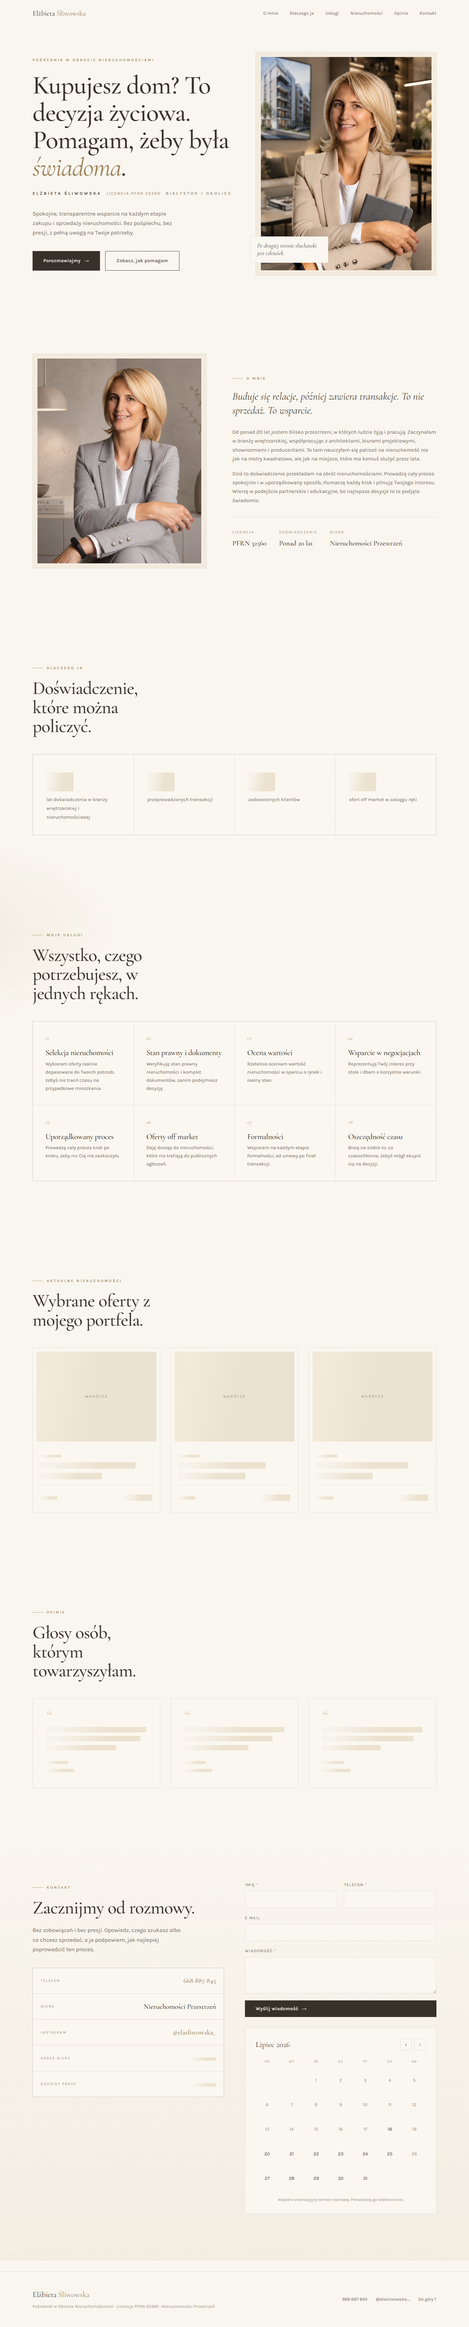
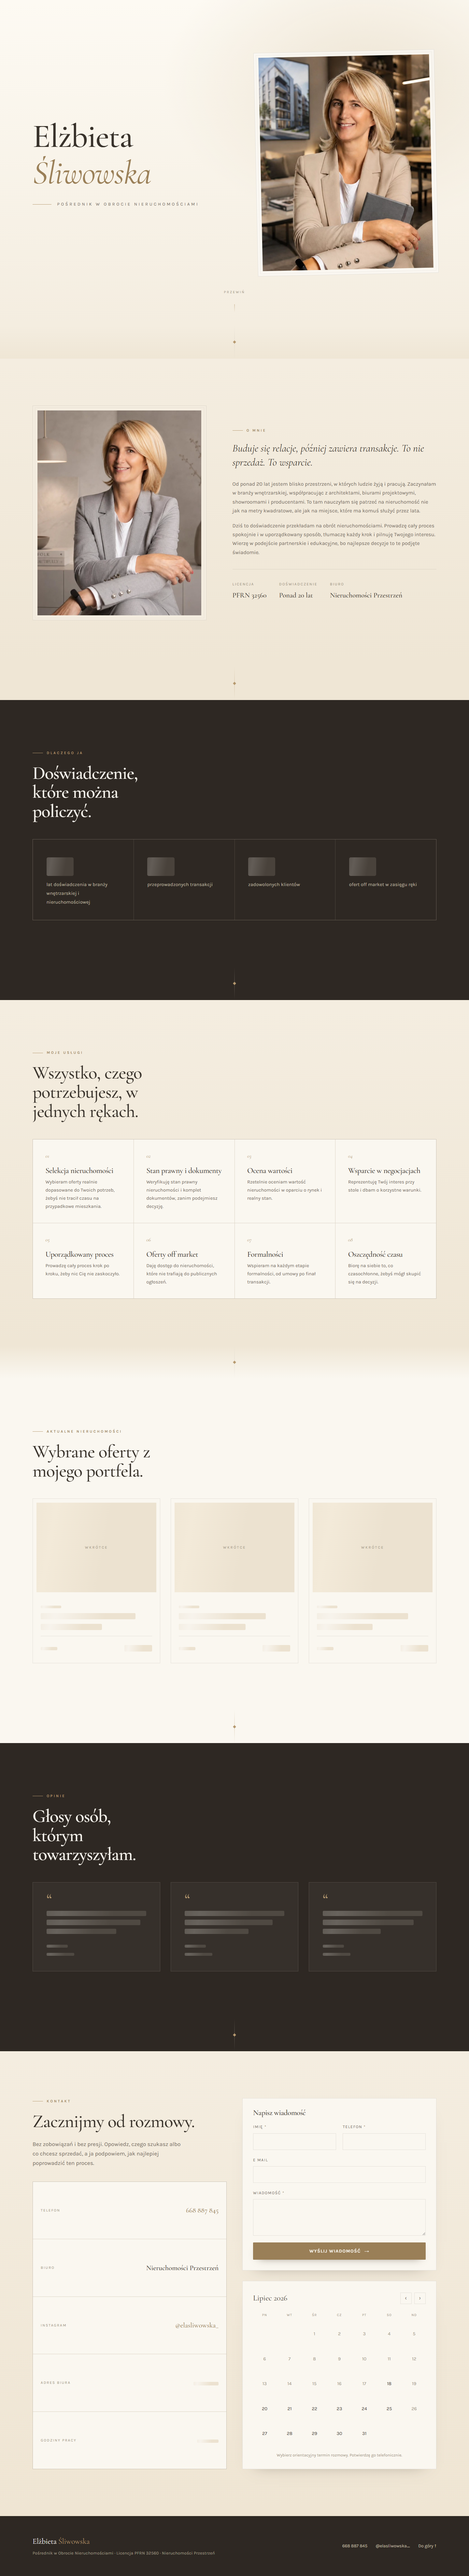
f

diff --git a/index.html b/index.html
@@ -22,6 +22,8 @@
   --beige:#e3d6bf;
   --accent:#b6996f;
   --accent-deep:#9a7f57;
+  --deep:#2e2823;
+  --deep-2:#241f1b;
   --ink:#37312a;
   --ink-soft:#6d6456;
   --ink-faint:#9a9080;
@@ -76,8 +78,13 @@ img{display:block;max-width:100%}
 .frame.is-loaded .media::before{display:none}
 @keyframes shimmer{to{background-position:-120% 0}}
 
-.nav{position:fixed;inset:0 0 auto;z-index:100;transition:background .3s ease,box-shadow .3s ease,padding .3s ease;padding:1.35rem 0}
-.nav.scrolled{background:rgba(250,247,240,.82);backdrop-filter:blur(12px);box-shadow:0 1px 0 var(--line);padding:.85rem 0}
+.nav{
+  position:fixed;inset:0 0 auto;z-index:100;padding:.9rem 0;
+  background:rgba(250,247,240,.86);backdrop-filter:blur(14px);box-shadow:0 1px 0 var(--line);
+  opacity:0;visibility:hidden;transform:translateY(-100%);
+  transition:opacity .45s var(--ease-out),transform .55s var(--ease-out),visibility .45s;
+}
+.nav.scrolled{opacity:1;visibility:visible;transform:none}
 .nav .row{display:flex;align-items:center;justify-content:space-between;gap:1rem}
 .brand{font-family:'Cormorant Garamond',serif;font-size:1.4rem;letter-spacing:-.01em}
 .brand span{color:var(--accent-deep)}
@@ -88,43 +95,71 @@ img{display:block;max-width:100%}
 .nav-links a:focus-visible{outline:2px solid var(--accent-deep);outline-offset:4px}
 
 .btn{
-  display:inline-flex;align-items:center;gap:.7rem;
-  font-family:'Karla',sans-serif;font-size:.9rem;font-weight:500;letter-spacing:.04em;
-  padding:1.05rem 2.1rem;cursor:pointer;border:none;
-  background:var(--ink);color:var(--cream);
-  transition:transform .18s var(--ease-out),background .3s ease,box-shadow .3s ease;
+  display:inline-flex;align-items:center;justify-content:center;gap:.7rem;
+  font-family:'Karla',sans-serif;font-size:.88rem;font-weight:600;letter-spacing:.1em;text-transform:uppercase;
+  padding:1.05rem 2.2rem;cursor:pointer;border:1px solid var(--accent-deep);border-radius:2px;
+  background:var(--accent-deep);color:var(--cream);position:relative;overflow:hidden;
+  transition:transform .2s var(--ease-out),color .35s ease,box-shadow .35s ease,border-color .35s ease;
+  box-shadow:0 10px 26px -18px rgba(60,45,25,.85);
   will-change:transform;
 }
+.btn::before{content:'';position:absolute;inset:0;background:var(--deep);transform:translateY(101%);transition:transform .45s var(--ease-out);z-index:0}
+.btn>*{position:relative;z-index:1}
 .btn .arrow{transition:transform .3s var(--ease-out)}
-@media(hover:hover){.btn:hover{background:var(--accent-deep);box-shadow:0 14px 30px -14px rgba(154,127,87,.7)}.btn:hover .arrow{transform:translateX(5px)}}
-.btn:active{transform:scale(.97)}
+@media(hover:hover){
+  .btn:hover{transform:translateY(-2px);border-color:var(--deep);box-shadow:0 18px 34px -18px rgba(46,40,35,.8)}
+  .btn:hover::before{transform:translateY(0)}
+  .btn:hover .arrow{transform:translateX(5px)}
+}
+.btn:active{transform:translateY(0) scale(.98)}
 .btn:focus-visible{outline:2px solid var(--accent-deep);outline-offset:4px}
-.btn-ghost{background:transparent;color:var(--ink);border:1px solid var(--ink)}
-@media(hover:hover){.btn-ghost:hover{background:var(--ink);color:var(--cream);box-shadow:none}}
+.btn-ghost{background:transparent;color:var(--accent-deep);box-shadow:none}
+@media(hover:hover){.btn-ghost:hover{color:var(--cream)}}
 
 section{position:relative}
 .pad{padding-block:clamp(4.5rem,11vw,9rem)}
+.band{background:var(--cream)}
+.band-2{background:linear-gradient(180deg,var(--cream-2),#efe6d5)}
+.band-dark{background:var(--deep);color:var(--cream-2)}
+.band-dark h2,.band-dark h3{color:var(--cream)}
+.band-dark .eyebrow{color:var(--accent)}
+.band-dark .tag::before{background:var(--accent)}
+.rule{height:clamp(4rem,7vw,6.5rem);position:relative;overflow:hidden}
+.rule::before{content:'';position:absolute;left:50%;top:0;width:1px;height:100%;background:linear-gradient(180deg,transparent,var(--line),transparent);transform:translateX(-50%) scaleY(0);transform-origin:top;transition:transform .9s var(--ease-out)}
+.rule.on::before{transform:translateX(-50%) scaleY(1)}
+.rule::after{content:'';position:absolute;left:50%;top:50%;width:7px;height:7px;background:var(--accent);transform:translate(-50%,-50%) rotate(45deg) scale(0);transition:transform .6s .35s var(--ease-out)}
+.rule.on::after{transform:translate(-50%,-50%) rotate(45deg) scale(1)}
+.rule-dark{background:var(--deep)}
+.rule-dark::before{background:linear-gradient(180deg,transparent,rgba(236,226,208,.28),transparent)}
+.rule-into-dark{background:#efe6d5}
+.rule-into-dark::before,.rule-into-dark-2::before{background:linear-gradient(180deg,transparent,rgba(182,153,111,.55),transparent)}
+.rule-into-light::before{background:linear-gradient(180deg,transparent,rgba(236,226,208,.32),transparent)}
+.rule-into-light{background:var(--deep)}
+.rule-into-light::after{background:var(--accent)}
+.rule-up{background:linear-gradient(180deg,#efe6d5,var(--cream))}
+.rule-into-dark-2{background:var(--cream)}
 .tag{display:inline-flex;align-items:center;gap:.7rem;margin-bottom:1.4rem}
 .tag::before{content:'';width:2rem;height:1px;background:var(--accent)}
 .h-sec{font-size:clamp(2.1rem,5.5vw,3.5rem)}
 
-.hero{padding-top:clamp(7rem,15vw,10rem);padding-bottom:clamp(3rem,8vw,6rem)}
-.hero-grid{display:grid;gap:clamp(2.5rem,6vw,4.5rem);align-items:center}
-.hero-copy .eyebrow{display:block;margin-bottom:1.6rem}
-.hero-copy h1{font-size:clamp(2.6rem,7.5vw,5rem);margin-bottom:1.7rem}
-.hero-copy h1 em{font-style:italic;color:var(--accent-deep)}
-.hero-name{font-family:'Karla',sans-serif;font-size:.8rem;letter-spacing:.34em;text-transform:uppercase;color:var(--ink-soft);margin-bottom:2.3rem;display:flex;align-items:center;gap:1rem;flex-wrap:wrap}
-.hero-name b{font-weight:600;color:var(--ink)}
-.hero-name .lic{color:var(--accent-deep);letter-spacing:.16em}
-.hero-cta{display:flex;flex-wrap:wrap;gap:1rem;margin-top:2.6rem}
-.hero-media{position:relative}
-.hero-media .frame{transform:rotate(-1.2deg)}
-.hero-media .stamp{
-  position:absolute;z-index:5;left:-1.1rem;bottom:2.4rem;
-  background:var(--cream);border:1px solid var(--line);padding:1rem 1.3rem;max-width:15rem;
-  transform:rotate(1.5deg);
+.hero{
+  position:relative;min-height:100svh;display:flex;align-items:center;
+  padding-block:clamp(5rem,12vw,8rem);
+  background:
+    radial-gradient(1000px 700px at 78% 25%,rgba(227,214,191,.55),transparent 62%),
+    linear-gradient(180deg,#fdfaf3,var(--cream-2));
 }
-.hero-media .stamp p{font-family:'Cormorant Garamond',serif;font-style:italic;font-size:1.15rem;line-height:1.3;color:var(--ink)}
+.hero-grid{display:grid;gap:clamp(2.5rem,6vw,4.5rem);align-items:center}
+.hero-copy h1{font-size:clamp(3rem,9vw,6.4rem);line-height:1.06;margin-bottom:1.8rem}
+.hero-copy h1 span{display:block;padding-block:.02em}
+.hero-copy h1 .last{color:var(--accent-deep);font-style:italic}
+.hero-role{font-family:'Karla',sans-serif;font-size:clamp(.72rem,1.6vw,.84rem);letter-spacing:.34em;text-transform:uppercase;color:var(--ink-soft);display:flex;align-items:center;gap:1.1rem}
+.hero-role::before{content:'';width:clamp(2rem,6vw,3.6rem);height:1px;background:var(--accent)}
+.hero-media{position:relative}
+.hero-media .frame{transform:rotate(-1.2deg);background:rgba(255,255,255,.5)}
+.hero-scroll{position:absolute;left:50%;bottom:clamp(1.6rem,4vw,2.6rem);transform:translateX(-50%);font-size:.66rem;letter-spacing:.28em;text-transform:uppercase;color:var(--ink-faint);display:flex;flex-direction:column;align-items:center;gap:.7rem}
+.hero-scroll::after{content:'';width:1px;height:2.6rem;background:linear-gradient(180deg,var(--accent),transparent);animation:drop 2.4s var(--ease-inout) infinite}
+@keyframes drop{0%{transform:scaleY(0);transform-origin:top}50%{transform:scaleY(1);transform-origin:top}51%{transform:scaleY(1);transform-origin:bottom}100%{transform:scaleY(0);transform-origin:bottom}}
 
 .about-grid{display:grid;gap:clamp(2.5rem,6vw,5rem);align-items:center}
 .about-media .frame{transform:rotate(1deg)}
@@ -135,11 +170,12 @@ section{position:relative}
 .about-meta div b{font-family:'Cormorant Garamond',serif;font-weight:500;font-size:1.35rem;color:var(--ink)}
 
 .stats-head{max-width:40ch;margin-bottom:clamp(2.5rem,5vw,3.5rem)}
-.stats{display:grid;gap:1px;background:var(--line);border:1px solid var(--line)}
-.stat{background:var(--cream);padding:clamp(1.8rem,3.5vw,2.6rem)}
-.stat .num{font-family:'Cormorant Garamond',serif;font-size:clamp(2.8rem,7vw,4.2rem);line-height:1;color:var(--accent-deep);display:block;margin-bottom:.7rem}
-.stat .num .skel{height:clamp(2.4rem,6vw,3.6rem);width:2.6ch;border-radius:5px}
-.stat .lbl{font-size:.92rem;color:var(--ink-soft);letter-spacing:.01em}
+.stats{display:grid;gap:1px;background:rgba(236,226,208,.16);border:1px solid rgba(236,226,208,.16)}
+.stat{background:var(--deep);padding:clamp(1.8rem,3.5vw,2.6rem);transition:background .35s ease}
+@media(hover:hover){.stat:hover{background:var(--deep-2)}}
+.stat .num{font-family:'Cormorant Garamond',serif;font-size:clamp(2.8rem,7vw,4.2rem);line-height:1;color:var(--accent);display:block;margin-bottom:.7rem}
+.stat .num .skel{height:clamp(2.4rem,6vw,3.6rem);width:2.6ch;border-radius:5px;background:rgba(236,226,208,.14)}
+.stat .lbl{font-size:.92rem;color:rgba(236,226,208,.72);letter-spacing:.01em}
 
 .svc{display:grid;gap:1px;background:var(--line);border:1px solid var(--line)}
 .svc-item{background:var(--cream);padding:clamp(1.8rem,3vw,2.4rem);position:relative;transition:background .35s ease,transform .35s var(--ease-out)}
@@ -162,25 +198,36 @@ section{position:relative}
 @media(hover:hover){.prop:hover{transform:translateY(-6px);box-shadow:0 26px 50px -30px rgba(55,49,42,.4)}}
 
 .quotes{display:grid;gap:clamp(1.5rem,3vw,2rem)}
-.quote{background:var(--cream);border:1px solid var(--line);padding:clamp(1.9rem,3.2vw,2.6rem);display:flex;flex-direction:column;gap:1.6rem}
-.quote .mark{font-family:'Cormorant Garamond',serif;font-size:3.2rem;line-height:.4;color:var(--beige);height:1.2rem}
-.quote p{font-family:'Cormorant Garamond',serif;font-size:1.3rem;font-style:italic;line-height:1.45;color:var(--ink);flex:1}
-.quote .who{font-size:.82rem;letter-spacing:.06em;color:var(--ink-soft)}
-.quote .who b{display:block;font-weight:600;color:var(--ink);font-family:'Karla',sans-serif;letter-spacing:.02em;margin-bottom:.15rem}
+.quote{background:rgba(250,247,240,.04);border:1px solid rgba(236,226,208,.16);padding:clamp(1.9rem,3.2vw,2.6rem);display:flex;flex-direction:column;gap:1.6rem;transition:transform .4s var(--ease-out),background .4s ease}
+@media(hover:hover){.quote:hover{transform:translateY(-5px);background:rgba(250,247,240,.07)}}
+.quote .mark{font-family:'Cormorant Garamond',serif;font-size:3.2rem;line-height:.4;color:var(--accent);height:1.2rem}
+.quote p{font-family:'Cormorant Garamond',serif;font-size:1.3rem;font-style:italic;line-height:1.45;color:var(--cream-2);flex:1}
+.quote .who{font-size:.82rem;letter-spacing:.06em;color:rgba(236,226,208,.6)}
+.quote .who b{display:block;font-weight:600;color:var(--cream);font-family:'Karla',sans-serif;letter-spacing:.02em;margin-bottom:.15rem}
+.band-dark .skel{background:rgba(236,226,208,.14)}
+.band-dark .skel::after{background:linear-gradient(100deg,transparent 18%,rgba(255,255,255,.14) 42%,transparent 66%);background-size:220% 100%}
 
-.contact{background:linear-gradient(180deg,transparent,rgba(227,214,191,.28))}
-.contact-grid{display:grid;gap:clamp(2.5rem,5vw,4rem)}
-.contact-right{display:flex;flex-direction:column;gap:2rem}
+.contact{background:linear-gradient(180deg,var(--cream-2),#efe5d3)}
+.contact-grid{display:grid;gap:clamp(2rem,4vw,3rem);align-items:stretch}
+.contact-info,.contact-right{display:flex;flex-direction:column}
+.contact-right{gap:clamp(1.5rem,3vw,2rem)}
 .contact-info h2{margin-bottom:1.6rem}
 .contact-info .lede{margin-bottom:2.6rem}
-.channels{display:grid;gap:1px;background:var(--line);border:1px solid var(--line);margin-bottom:2.4rem}
+.channels{display:flex;flex-direction:column;gap:1px;background:var(--line);border:1px solid var(--line);margin-top:auto;flex:1}
+.channels .channel{flex:1}
 .channel{background:var(--cream);padding:1.3rem 1.5rem;display:flex;align-items:center;justify-content:space-between;gap:1rem;transition:background .3s ease}
 .channel span{font-size:.72rem;letter-spacing:.18em;text-transform:uppercase;color:var(--ink-faint)}
 .channel b{font-family:'Cormorant Garamond',serif;font-weight:500;font-size:1.35rem}
 .channel a{color:var(--accent-deep)}
 @media(hover:hover){.channel:hover{background:var(--cream-2)}}
 
-.cal{background:var(--cream);border:1px solid var(--line);padding:clamp(1.4rem,3vw,2rem)}
+.card{background:var(--cream);border:1px solid var(--line);padding:clamp(1.4rem,3vw,2rem);box-shadow:0 24px 50px -40px rgba(55,49,42,.5)}
+.contact-right .card:first-child{flex:1;display:flex;flex-direction:column}
+.contact-right .form{flex:1;display:flex;flex-direction:column}
+.field-msg{flex:1;display:flex;flex-direction:column}
+.field-msg textarea{flex:1}
+.card-title{font-family:'Cormorant Garamond',serif;font-size:1.45rem;margin-bottom:1.3rem}
+.cal{display:flex;flex-direction:column}
 .cal-head{display:flex;align-items:center;justify-content:space-between;margin-bottom:1.4rem}
 .cal-head .m{font-family:'Cormorant Garamond',serif;font-size:1.5rem}
 .cal-nav{display:flex;gap:.5rem}
@@ -215,13 +262,13 @@ section{position:relative}
 .form-status{font-size:.9rem;padding:.9rem 1.1rem;border:1px solid var(--accent);background:rgba(182,153,111,.12);color:var(--ink);display:none}
 .form-status.show{display:block}
 
-.foot{border-top:1px solid var(--line);padding-block:3.2rem;margin-top:2rem}
+.foot{background:var(--deep);color:var(--cream-2);padding-block:3.6rem}
 .foot .row{display:flex;flex-wrap:wrap;gap:1.5rem;justify-content:space-between;align-items:center}
-.foot .brand{font-size:1.5rem}
-.foot small{color:var(--ink-faint);font-size:.82rem;letter-spacing:.02em}
+.foot .brand{font-size:1.5rem;color:var(--cream)}
+.foot small{color:rgba(236,226,208,.55);font-size:.82rem;letter-spacing:.02em}
 .foot .fl{display:flex;gap:1.6rem;flex-wrap:wrap}
-.foot .fl a{font-size:.85rem;color:var(--ink-soft)}
-@media(hover:hover){.foot .fl a:hover{color:var(--accent-deep)}}
+.foot .fl a{font-size:.85rem;color:rgba(236,226,208,.75)}
+@media(hover:hover){.foot .fl a:hover{color:var(--accent)}}
 
 .reveal>*{opacity:0;transform:translateY(26px)}
 body.no-anim .reveal>*{opacity:1;transform:none}
@@ -267,34 +314,26 @@ body.no-anim .reveal>*{opacity:1;transform:none}
   </div>
 </nav>
 
-<header class="hero pad" id="start">
+<header class="hero" id="start">
   <div class="shell hero-grid">
-    <div class="hero-copy reveal">
-      <span class="eyebrow">Pośrednik w Obrocie Nieruchomościami</span>
-      <h1>Kupujesz dom? To decyzja życiowa. Pomagam, żeby była <em>świadoma</em>.</h1>
-      <div class="hero-name">
-        <b>Elżbieta Śliwowska</b>
-        <span class="lic">Licencja PFRN 32560</span>
-        <span>Białystok i okolice</span>
-      </div>
-      <p class="lede">Spokojne, transparentne wsparcie na każdym etapie zakupu i sprzedaży nieruchomości. Bez pośpiechu, bez presji, z pełną uwagą na Twoje potrzeby.</p>
-      <div class="hero-cta">
-        <a class="btn" href="#kontakt">Porozmawiajmy <span class="arrow">→</span></a>
-        <a class="btn btn-ghost" href="#uslugi">Zobacz, jak pomagam</a>
-      </div>
+    <div class="hero-copy">
+      <h1><span>Elżbieta</span><span class="last">Śliwowska</span></h1>
+      <p class="hero-role">Pośrednik w obrocie nieruchomościami</p>
     </div>
-    <div class="hero-media reveal">
+    <div class="hero-media">
       <div class="frame">
         <div class="media" style="aspect-ratio:4/5">
           <img src="assets/img/hero-elzbieta.jpg" alt="Elżbieta Śliwowska, pośrednik w obrocie nieruchomościami w Białymstoku" width="800" height="1000">
         </div>
       </div>
-      <div class="stamp"><p>Po drugiej stronie słuchawki jest człowiek.</p></div>
     </div>
   </div>
+  <div class="hero-scroll">Przewiń</div>
 </header>
 
-<section class="pad" id="o-mnie">
+<div class="rule band-2"></div>
+
+<section class="pad band-2" id="o-mnie">
   <div class="shell about-grid">
     <div class="about-media reveal">
       <div class="frame">
@@ -317,7 +356,9 @@ body.no-anim .reveal>*{opacity:1;transform:none}
   </div>
 </section>
 
-<section class="pad" id="dlaczego">
+<div class="rule rule-into-dark"></div>
+
+<section class="pad band-dark" id="dlaczego">
   <div class="shell">
     <div class="stats-head reveal">
       <div class="tag"><span class="eyebrow">Dlaczego ja</span></div>
@@ -333,7 +374,9 @@ body.no-anim .reveal>*{opacity:1;transform:none}
   </div>
 </section>
 
-<section class="pad" id="uslugi">
+<div class="rule rule-into-light"></div>
+
+<section class="pad band-2" id="uslugi">
   <div class="shell">
     <div class="stats-head reveal">
       <div class="tag"><span class="eyebrow">Moje usługi</span></div>
@@ -352,7 +395,9 @@ body.no-anim .reveal>*{opacity:1;transform:none}
   </div>
 </section>
 
-<section class="pad" id="nieruchomosci">
+<div class="rule rule-up"></div>
+
+<section class="pad band" id="nieruchomosci">
   <div class="shell">
     <div class="stats-head reveal">
       <div class="tag"><span class="eyebrow">Aktualne nieruchomości</span></div>
@@ -388,7 +433,9 @@ body.no-anim .reveal>*{opacity:1;transform:none}
   </div>
 </section>
 
-<section class="pad" id="opinie">
+<div class="rule rule-into-dark-2"></div>
+
+<section class="pad band-dark" id="opinie">
   <div class="shell">
     <div class="stats-head reveal">
       <div class="tag"><span class="eyebrow">Opinie</span></div>
@@ -415,6 +462,8 @@ body.no-anim .reveal>*{opacity:1;transform:none}
   </div>
 </section>
 
+<div class="rule rule-into-light"></div>
+
 <section class="contact pad" id="kontakt">
   <div class="shell contact-grid">
     <div class="contact-info reveal">
@@ -431,18 +480,21 @@ body.no-anim .reveal>*{opacity:1;transform:none}
     </div>
     <div class="contact-right reveal">
       <!-- Walidacja frontendowa. Brak realnej wysylki. Podlacz backend lub usluge mailowa w handlerze submit ponizej (patrz PODPIECIE BACKENDU). -->
+      <div class="card">
+      <h3 class="card-title">Napisz wiadomość</h3>
       <form class="form" id="contact-form" novalidate>
         <div class="form-row">
           <div class="field"><label for="f-name">Imię <span class="req">*</span></label><input id="f-name" name="name" type="text" autocomplete="name" required><span class="err">Podaj imię.</span></div>
           <div class="field"><label for="f-phone">Telefon <span class="req">*</span></label><input id="f-phone" name="phone" type="tel" autocomplete="tel" inputmode="tel" required><span class="err">Podaj poprawny numer telefonu.</span></div>
         </div>
         <div class="field"><label for="f-email">E mail</label><input id="f-email" name="email" type="email" autocomplete="email" inputmode="email"><span class="err">Podaj poprawny adres e mail.</span></div>
-        <div class="field"><label for="f-msg">Wiadomość <span class="req">*</span></label><textarea id="f-msg" name="message" required></textarea><span class="err">Napisz kilka słów o tym, w czym mogę pomóc.</span></div>
+        <div class="field field-msg"><label for="f-msg">Wiadomość <span class="req">*</span></label><textarea id="f-msg" name="message" required></textarea><span class="err">Napisz kilka słów o tym, w czym mogę pomóc.</span></div>
         <div class="form-status" id="form-status">Dziękuję. Wiadomość została zapisana. Odezwę się telefonicznie.</div>
-        <button class="btn" type="submit">Wyślij wiadomość <span class="arrow">→</span></button>
+        <button class="btn" type="submit"><span>Wyślij wiadomość</span> <span class="arrow">→</span></button>
       </form>
+      </div>
       <!-- Fejkowy widget kalendarza. Czysto wizualny mockup, brak realnej integracji. Placeholder do podpiecia rezerwacji terminow w przyszlosci. -->
-      <div class="cal" id="cal">
+      <div class="cal card" id="cal">
         <div class="cal-head">
           <div class="m" id="cal-month"></div>
           <div class="cal-nav">
@@ -460,7 +512,7 @@ body.no-anim .reveal>*{opacity:1;transform:none}
 <footer class="foot">
   <div class="shell row">
     <div>
-      <div class="brand">Elżbieta <span style="color:var(--accent-deep)">Śliwowska</span></div>
+      <div class="brand">Elżbieta <span style="color:var(--accent)">Śliwowska</span></div>
       <small>Pośrednik w Obrocie Nieruchomościami · Licencja PFRN 32560 · Nieruchomości Przestrzeń</small>
     </div>
     <div class="fl">
@@ -487,7 +539,8 @@ const reduceMotion = matchMedia('(prefers-reduced-motion: reduce)').matches
 const isMobile = matchMedia('(max-width: 768px)').matches
 
 const nav = document.getElementById('nav')
-const onScroll = () => nav.classList.toggle('scrolled', window.scrollY > 20)
+const hero = document.getElementById('start')
+const onScroll = () => nav.classList.toggle('scrolled', window.scrollY > hero.offsetHeight * 0.6)
 onScroll()
 addEventListener('scroll', onScroll, {passive:true})
 
@@ -570,8 +623,38 @@ if (!reduceMotion && !isScreenshot && window.gsap) {
       scrollTrigger: {trigger: box, start: 'top 82%'}
     })
   })
+
+  gsap.timeline({defaults:{ease:'expo.out'}})
+    .from('.hero-copy h1 span', {y:48, opacity:0, duration:1.4, stagger:0.12}, 0.15)
+    .from('.hero-role', {y:22, opacity:0, duration:1.1}, 0.6)
+    .from('.hero-media .frame', {y:46, opacity:0, scale:0.96, duration:1.6}, 0.25)
+    .from('.hero-scroll', {opacity:0, duration:1}, 0.9)
+
+  gsap.to('.hero-media .frame', {
+    yPercent: -9, ease: 'none',
+    scrollTrigger: {trigger:'.hero', start:'top top', end:'bottom top', scrub:0.6}
+  })
+
+  gsap.utils.toArray('.rule').forEach(r => {
+    ScrollTrigger.create({trigger:r, start:'top 88%', onEnter:() => r.classList.add('on')})
+  })
+
+  gsap.utils.toArray('.stat, .svc-item, .prop, .quote, .channel').forEach((el, i) => {
+    gsap.from(el, {
+      y: 30, opacity: 0, duration: 0.8, ease: 'power3.out', delay: (i % 4) * 0.06,
+      scrollTrigger: {trigger: el, start: 'top 90%'}
+    })
+  })
+
+  gsap.utils.toArray('.h-sec').forEach(h => {
+    gsap.from(h, {
+      y: 34, opacity: 0, duration: 1.1, ease: 'power4.out',
+      scrollTrigger: {trigger: h, start: 'top 88%'}
+    })
+  })
 } else {
   document.body.classList.add('no-anim')
+  document.querySelectorAll('.rule').forEach(r => r.classList.add('on'))
 }
 </script>
 </body>
